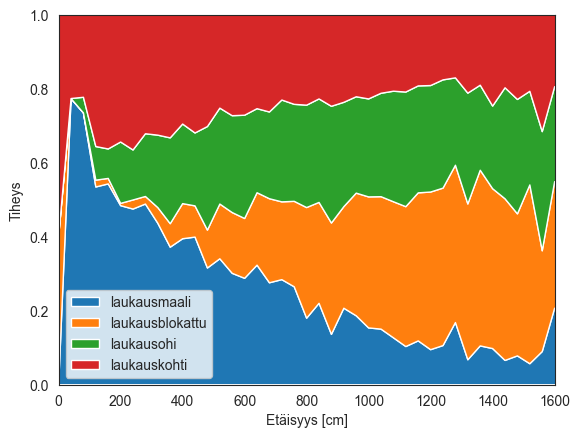
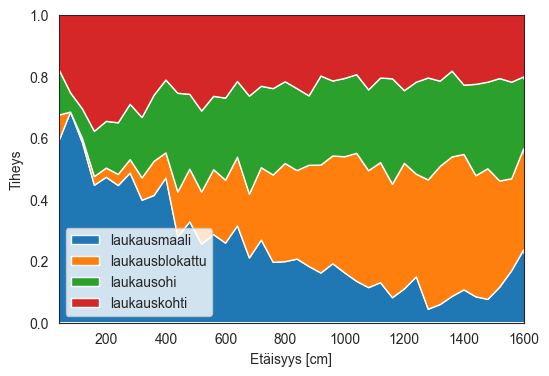
updates

Changed region(s): [[0.031, 0.0, 0.9909, 0.9947], [0.0, 0.4096, 0.0619, 0.4973]]

diff --git a/_posts/2025-3-01-floorball-eda-men.md b/_posts/2025-3-01-floorball-eda-men.md
@@ -1,5 +1,5 @@
 ---
-title: 'Mistä salibandyn maalit tehdään miesten F-Liigassa ?'
+title: 'Mistä salibandyn maalit tehdään miesten F-Liigassa ? Salibandy osa 1'
 date: 2025-03-12
 permalink: /posts/2025/3/salibandy_eda_men/
 summary: 'Blogi | Analysoidaan miesten F-Liigan salibandyotteluiden dataa. Kartat näyttävät, mistä maaleja tehdään. Jakaumista selviää, miltä etäisyydeltä maalit tehdään.'
@@ -14,21 +14,22 @@ Salibandyliitto jakaa F-Liigan maalitilastoja ottelukohtaisesti. Niistä näkyy 
 1 Laukaisudata
 ===
 
-F-Liiga jakaa sivuillaan jaetaan tietoja siitä, mistä ottelun kuluessa on maalia kohti laukaistu. Syvempi analyysi sivuilta kuitenkin puuttuu. Siitä syytä keräsin tietoa sivuilta ja yhdistelin sitä analyysiä varten. 
+Tässä analysoitu data on peräisin F-Liigan tulospalvelusta. Siellä jaetaan tietoa siitä, mistä päin kenttää on vedetty ja onko veto suuntautunut kohti maalia, mennyt maaliin, blokattu tai mennyt ohi. Syvempi datan analyysiä sivuilta kuitenkin on niukasti. 
 
-Tarkastellaan kautta 2024-2025 maaliskuun alussa. Vastaavan analyysin voi toki tehdä mille ajanhetkelle tahansa. Tässä tulokset perustuvat vain kauden 2024-2025 miesten F-Liigan dataan.
+Tarkastellaan seuraavaksi kauden tilannetta 2024-2025 maaliskuun alussa. Vastaavan analyysin voi toki tehdä mille ajanhetkelle tahansa. Tässä tulokset perustuvat vain kauden 2024-2025 miesten F-Liigan dataan.
 
-2 Laukausten ja maalin jakaumat
+2 Laukaisukartat
 ====
 
-Kuvio 1 näyttää tiheysjakauma, mistäpäin kenttää vedetyt vedot ovat päätyneet maaliin. Kuvio on samanlainen korkeuskäyrästö kuin maastokartasta löytyy. Kuvion perusteella on selvää, että paras paikka tehdä maaleja on hienosti nimetyltä maalialueella heti maalin edustalla.
+Salibandykentä koko on 20m x 40 m. Kuvio 1 näyttää maaliin menneiden vetojen tiheysjakauman hyökkäyspäässä, joka kertoo mistäpäin kenttää vedetyt vedot ovat päätyneet maaliin. Kuvio on samanlainen korkeuskäyrästö kuin maastokartasta löytyy, joten sitä on hyvä kutsua laukaisukartaksi. Kuvion 1 perusteella on selvää, että paras paikka tehdä maaleja on heti maalin edustalla. Tätä aluetta kutsutaan maalialueeksi, eikä syyttä.
 
 ![Maalien jakauma](/images/floorball/miehet/laukausmaali.png)<br>
 _Kuvio 1. Mistä päin kenttää maaleja on tehty._
 
-Kun sitä vertaa Kuvioon 2, joka näyttää, mistäpäin kenttää on lauottu, on ero melkoinen. Maaleja syntyy pääasiassa läheltä maalia (Kuvio 3), pidemmältä ammutut menevät ohi, ne torjutaan tai ne blokataan (Kuviot 4 ja 5).
+Kuvio 2 näyttää mistäpäin kenttää on lauottu.
+Kun Kuviota 1 vertaa Kuvioon 2, näkyy selvä ero. Maaleja syntyy pääasiassa läheltä maalia (Kuvio 1), pidemmältä ammutut menevät usein ohi (Kuvio 4), ne torjutaan (Kuvio 3) tai ne blokataan (Kuvio 5).
 
-Noin 12 prosenttia kaikista vedoista lähtee maalialueelta, mutta maaleista sieltä syntyy 28 prosenttia. Osuudet ovat lähes samat kuin naisilla.
+Noin 12 prosenttia kaikista vedoista lähtee maalialueelta, mutta maaleista sieltä syntyy 28 prosenttia. 
 
 ![Vetojen jakauma](/images/floorball/miehet/laukauskaikki.png)<br>
 _Kuvio 2. Kaikki laukaukset. Kaavio näyttää laukausten lähtöpaikan tiheysjakauman._
@@ -36,64 +37,70 @@ _Kuvio 2. Kaikki laukaukset. Kaavio näyttää laukausten lähtöpaikan tiheysja
 ![Vetojen jakauma](/images/floorball/miehet/laukauskohti.png)<br>
 _Kuvio 3. Laukaukset kohti maalia._
 
-Kuviot 4 ja 5 näyttävät, että laukauksia ammutaan paljon maalin edustan lisäksi jääkiekkokielleä B-pisteiltä, mutta niistä ei tulosta juuri synny. Tämä myös selittää kuvioiden 2 ja 3 eron.
+Kuviot 4 ja 5 näyttävät, että laukauksia ammutaan paljon maalin edustan lisäksi jääkiekkokiellä B-pisteiltä, mutta niistä ei tulosta juuri synny. Tämä myös selittää kuvioiden 1 ja 2 eron.
 
 ![Vetojen jakauma](/images/floorball/miehet/laukausohi.png)<br>
 _Kuvio 4. Laukaukset ohi._
 
+Erityisesti kaukaa vedetyt laukaukset blokattaan kertoo Kuvio 5. Maalialueelta lauotuista vain pieni osa blokataan.
+
 ![Vetojen jakauma](/images/floorball/miehet/laukausblokattu.png)<br>
 _Kuvio 5. Blokatut laukaukset._
+
+Laukaisukartat kertovat, että maaleista suuri osa syntyy läheltä.
 
 3 Etäisyyden vaikutus maaleihin
 ====
 
-Etäisyyden funktiona maalien ja blokattujen laukausten osuus yhteensä kaikista laukauksista on jotakuinkin vakio. 
-Maaleja tehdään läheltä maalia, pidemmältä ammuttujen laukausten blokkaus kasvaa etäisyyden kasvaessa (Kuvio 4).
+Etäisyyden kasvaessa maalista on vaikeampi tehdä maalia (Kuvio 4). 
+Blokattujen laukausten osuus kasvaa etäisyyden kasvaessa. Ohilaukausten osuus säilyy jotakuinkin vakiona yli 4 metrin etäisyyksillä. Hieman yllättäen torjuntojen osuus on korkeimillaan hieman alle 2 metrin etäisyydellä. Tätä pienemmillä etäisyyksillä maalivahdin reaktiot eivät ilmeisesti riitä torjuntaan ja pidemmillä etäisyyksillä blokkausten osuus kasvaa niin paljon, että se vähentää torjuntojen osuutta.
+
+Yli 1,5 metriä pidemmillä etäisyyksillä maalien ja blokattujen laukausten osuus yhteensä kaikista laukauksista on jotakuinkin vakio 50 prosenttia kaikista laukauksista.
 
 ![Vetojen jakauma etäisyyden mukaan](/images/floorball/miehet/distance.png)<br>
 _Kuvio 4. Miltä etäisyydeltä tapahtuu laukaukselle mitä._
 
-Samalla tavoin maaliin menneiden laukausten kumulaativinen osuus etäisyyden suhteen kasvaa selvästi nopeammin kuin kaikkien laukausten.
-Tämäkin kertoo siitä, että maaleissa läheltä ammutut laukaukset korostuvat.
+Kuviossa 5 "laukauskohti" tarkoittaa oleellisesti torjuttujen laukausten osuutta kaikista niistä laukauksista, jotka joko torjutaan tai menevät maaliin. Siitä näkee, että torjuntaprosentti on luokkaa 20-25, kun vedot lähtevät alle 1,5 metrin päästä maalista. Siitä aina 4 metriin torjuntaprosentti on noin 35, mistä torjuntojen osuus kasvaa kohti 85 prosenttia 16 metriin päässä maalilta. Torjuntojen osuus kaikista maalille asti tulleista vedoista siis kasvaa etäisyyden kasvaessa, toisin kuin kuvio 4 antoi ymmärtää.
 
 ![Vetojen jakauma etäisyyden mukaan](/images/floorball/miehet/distance2.png)<br>
 _Kuvio 5. Miltä etäisyydeltä tapahtuu laukaukselle mitä._
 
-Kuviossa 5 laukauskohti on oleellisesti torjuttujen laukausten osuus kaikista laukauksista, jotka joko torjutaan tai menevät maaliin. Siitä näkee, että torjuntaprosentti on luokkaa 20-25, kun vedot lähtevät alle 1,5 metrin päästä maalista. Siitä aina 4 metriin torjuntaprosentti on noin 35, mistä torjuntojen osuus kasvaa kohti 85 prosenttia 16 metriin päässä maalilta.
+Kuvio 6 näyttää, miten maalien synty riippuu etäisyydestä. Huolimatta siitä, että alle 2,5 metristä ammutaan vähän, syntyy maaleja siltä etäisyydeltä hyvällä prosentilla, kuten myös kuvio 4 näyttää.
+
+Samalla tavoin maaliin menneiden laukausten kumulaativinen osuus etäisyyden suhteen kasvaa selvästi nopeammin kuin kaikkien laukausten (Kuvio 6).
+Tämäkin kertoo siitä, että maaleissa läheltä ammutut laukaukset korostuvat.
 
 ![Vetojen jakauma etäisyyden mukaan](/images/floorball/miehet/maali_vs_kaikki.png)<br>
 _Kuvio 6. Etäisyyden vaikutus maalien syntyyn kumulatiivisesti._
-
-Kuvio 6 näyttää, miten maalien synty riippuu etäisyydestä. Huolimatta siitä, että alle 2,5 metristä ammutaan vähän, syntyy maaleja siltä etäisyydeltä hyvällä prosentilla, kuten myös kuvio 4 näyttää.
 
 
 4 Kulman vaikutus maaleihin
 ====
 
-Se, mistä kulmasta laukaus tulee, vaikuttaa maalin syntyyn. Laukaisukulmissa korostuu kolme piikkiä: keskeltä ja B-pisteiltä.
-Maalit tehdään pääosin keskeltä, mutta hieman yllättäen vasemmalta laidalta tehdään enemmän maaleja kuin oikealta.
-Samoin maaleja tehdään enemmän suurista kulmista kuin aiempien kuvien perusteella odottaisi.
-
-![Vetojen jakauma etäisyyden mukaan](/images/floorball/miehet/angle_laukausmaali.png)<br>
-_Kuvio 7. Maalit._
+Se, mistä kulmasta laukaus tulee, vaikuttaa maalin syntyyn. Laukaisukulmissa korostuu kolme piikkiä: keskeltä ja B-pisteiltä (Kuvio 7).
 
 ![Vetojen jakauma etäisyyden mukaan](/images/floorball/miehet/angle_laukauskaikki.png)<br>
-_Kuvio 8. Kaikki laukaukset._
+_Kuvio 7. Kaikki laukaukset._
+
+Maalit tehdään pääosin keskeltä. Maaleja tehdään kuitenkin myös jonkin verran suurista kulmista. 
+
+![Vetojen jakauma etäisyyden mukaan](/images/floorball/miehet/angle_laukausmaali.png)<br>
+_Kuvio 8. Maalit._
 
 5 Joukkueiden väliset erot
 ===
-Joukkueiden laukauskartoissa on selviä eroja. Oilers laukoo paljon oikealta läheltä laitaa, ja saakin sieltä jonkin verran maaleja. Kuitenkin Oilersilla maalit painottuvat maalinalueelta vedettyihin.
+Joukkueiden laukauskartoissa on selviä eroja (Kuvio 9). Oilers laukoo paljon oikealta läheltä laitaa, ja saakin sieltä jonkin verran maaleja. Kuitenkin Oilersilla maalit painottuvat maalinalueelta vedettyihin. OLS laukoo hyvin eri tavalla kuin muut joukkueet: sen laukaukset lähtevät korostetusti maalialueelta ja sen edustalta painottuen vasempaan laitaan.
 
 ![alt text](/images/floorball/miehet/joukkueet_laukauskaikki.png)
 _Kuvio 9. Kaikki laukaukset._
 
 Joukkueiden maalikartat ovat enemmän samanlaisia keskenään kuin laukauskartat.
-
+Maalit tehdään keskittyen maalialueeseen, ehkä LASBia lukuunottamatta. LASB tekee samaa tahtia maaleja myös vasemmalta laidalta kuin maalialueelta.
 
 ![alt text](/images/floorball/miehet/joukkueet_laukausmaali.png)
 _Kuvio 10. Maalit._
 
-Maaleista OLS ja EräViikingit tekevät 37 prosenttia maalialueelta. Muilla joukkueilla se on selvästi alempi. Kärkijoukkueet tekevät vain noin 26 prosenttia maaleista maalialueelta. Tämäkin on reilusti korkeampi vetojen osuus 9-14 prosenttia.
+OLS ja EräViikingit tekevät 37 prosenttia maaleistaan maalialueelta. Muilla joukkueilla osuus on selvästi alempi. Kärkijoukkueet Classic, Krp, Indians ja Oilers tekevät vain noin 26 prosenttia maaleista maalialueelta. Tämäkin on reilusti korkeampi kuin maalialueelta ammuttujen vetojen osuus 11-14 prosenttia.
 
 ![alt text](/images/floorball/miehet/d_miehet.png)
 _Kuvio 11. Mikä osuus vedoista ja maaleista ammutaan maalialuen 4m x 5m alueelta. Mukana myös tieto vetojen ja maalilaukausten keskietäisyydestä._

diff --git a/_posts/2025-3-01-floorball-eda-women.md b/_posts/2025-3-01-floorball-eda-women.md
@@ -1,5 +1,5 @@
 ---
-title: 'Mistä salibandyn maalit tehdään naisten F-Liigassa?'
+title: 'Mistä naiset tekevät maalit F-Liigassa? Salibandy osa 2'
 date: 2025-03-12
 permalink: /posts/2025/3/salibandy_eda_women/
 summary: 'Blogi | Analysoidaan Naisten F-Liigan salibandyotteluiden dataa. Kartat näyttävät, mistä maaleja tehdään. Jakaumista selviää, miltä etäisyydeltä maalit tehdään.'
@@ -9,19 +9,19 @@ tags:
   - maalit
 ---
 
-Salibandyliitto jakaa F-Liigan maalitilastoja ottelukohtaisesti. Niistä näkyy kiinnostavia asioita, mutta jakaumat puuttuvat. Tässä blogissa yritetään ymmärtää, mistä maalit syntyvät naisten F-Liigassa. Maaleissa vedon paikalla on väliä. Läheltä vedetyt menevät maaliit, kaukaa vedetyt blokataan.
+Salibandyssä sillä on väliä, mistä veto lähtee. Tässä blogissa yritetään ymmärtää, mistä maalit syntyvät naisten F-Liigassa. Tulokset hieman yksinkertaistaen: läheltä vedetyt menevät maaliit, kaukaa vedetyt blokataan. 
 
 1 Laukaisudata
 ===
 
-F-Liiga jakaa sivuillaan jaetaan tietoja siitä, mistä ottelun kuluessa on maalia kohti laukaistu. Syvempi analyysi sivuilta kuitenkin puuttuu. Siitä syytä keräsin tietoa sivuilta ja yhdistelin sitä analyysiä varten. 
+[Osassa 1](/posts/2025/3/salibandy_eda_men/) analysoitiin miesten F-Liigaa. Nyt analysoidaan naisten F-Liigaa. 
+Tarkastellaan seuraavaksi kauden tilannetta 2024-2025 maaliskuun alussa. Tässä tulokset perustuvat vain kauden 2024-2025 naisten F-Liigan dataan.
 
-Tarkastellaan kautta 2024-2025 maaliskuun alussa. Vastaavan analyysin voi toki tehdä mille ajanhetkelle tahansa. Tässä tulokset perustuvat vain kauden 2024-2025 naisten F-Liigan dataan.
-
-2 Laukausten ja maalin jakaumat
+2 Laukaisukartat
 ====
 
-Kuvio 1 näyttää tiheysjakauman, joka kertoo mistäpäin kenttää vedetyt vedot ovat päätyneet maaliin. Kuvio on samanlainen korkeuskäyrästö kuin maastokartasta löytyy. Kuvion perusteella on selvää, että paras paikka tehdä maaleja on maalialueella heti maalin edustalla.
+Salibandykentä koko on 20m x 40 m. Kuvio 1 näyttää maaliin menneiden vetojen tiheysjakauman, joka kertoo mistäpäin kenttää vedetyt vedot ovat päätyneet maaliin. 
+Kuviossa 1 esitetään kentän hyökkäyspääty. Kuvio on samanlainen korkeuskäyrästö kuin maastokartasta löytyy, joten sitä on hyvä kutsua laukaisukartaksi. Kuvion 1 perusteella on selvää, että paras paikka tehdä maaleja on heti maalin edustalla. Tätä aluetta kutsutaan maalialueeksi, eikä syyttä.
 
 ![Maalien jakauma](/images/floorball/naiset/laukausmaali.png)<br>
 _Kuvio 1. Mistä päin kenttää maaleja on tehty._

diff --git a/_posts/2025-3-10-floorball-xG.md b/_posts/2025-3-10-floorball-xG.md
@@ -1,5 +1,5 @@
 ---
-title: 'Salibandyn xG ja maalit'
+title: 'Salibandyn xG ja maalit - Salibandy osa 3'
 date: 2025-03-12
 permalink: /posts/2025/3/salibandy_xG/
 summary: 'Blogi | Analysoidaan odotettujen maalien määrää, siis xG:tä, F-Liigassa.'
@@ -11,10 +11,8 @@ tags:
 
 Miten lasketaan maaliodottama xG salibandyn datoista? Entä millaisia eroja joukkueiden välillä on xG:ssä? Tämä blogi vastaa näihin kysymyksiin.
 
-1 xG ja data
+1 Odotetut maalit xG
 ===
-
-F-Liigan sivuilla jaetaan tietoja, mistä ottelun kuluessa on maalia kohti laukaistu. Syvemopi analyysi kuitenkin puuttuu. Siitä syytä keräsin tietoa sivuilta ja yhdistelin sitä. Tarkastellaan aluksi miesten F-Liigaa.
 
 xG tarkoittaa odotettua maalien määrää. Se voidaan laskea eri tavoilla. Tässä on käytetty kaikkein helpointa tapaa. Tällöin xG lasketaan pelkästään laukaisujen määrän ja paikan perusteella. Kenttä jaetaan ensin ruudukoihin, joista lasketaan jokaiselle, montako laukausta ja maalia on tehty ko. ruudusta. Tämä suhde kertoo todennäköisyyden ruudusta laukaistulle vedolle mennä maaliin. Näin saadaan todennäköisyysjakauma vedoille.
 
@@ -23,6 +21,9 @@ Kun lasketaan odotettujen maalien määrä ottelussa, siis xG, lasketaan jokaise
 xG-ero kertoo tehtyjen maalien ja xG:n erotuksen. Mitä korkeampi se on, sitä laadukkaampaa on joukkueen viimeistely. Osaltaan se kertoo myös sen, että xG ei suinkaan ole koko tarina. Se ei mm. kerro, miten muut pelaajat ovat sijoittuneet vetotilanteessa.
 
 Mitä korkeampi on joukkueen xG, sitä laadukkaampaa on sen peli. 
+Samalla tavalla myös xG-ero, siis tehtyjen maalien ja xG:n ero kertoo joukkueen pelin tasosta. Jos joukkue pystyy toistuvasti ylittämään xG:n, on sen pystyttävä luomaan laadukkaampia vetoja kuin mitä xG ennustaa.
+
+Vastinpari xG:lle on joukkuetta vastaan tehty xG, jota merkitään xGA:lla. Se kertoo siitä, miten laadukkaita maalintekopaikkoja joukkueen puolustus salliin. Mitä korkeampi xGA, sitä heikompi puolustus.
 
 2 Joukkueiden xG
 ===
@@ -75,3 +76,8 @@ Naisissa Miisa Turunen on omilla lukemillaan: kun xG on 17, on hän tehnyt maale
 
 ![Maalien jakauma](/images/floorball/xG/xG_players_women.png)<br>
 _Kuvio 4. xG pelaajille naisten F-Liigassa._
+
+4 Rajoituksia
+===
+
+Tässä on esitelty xG:n laskentaa yksinkertaistetusti. Osin se johtuu saatavilla olevasta datasta. 
